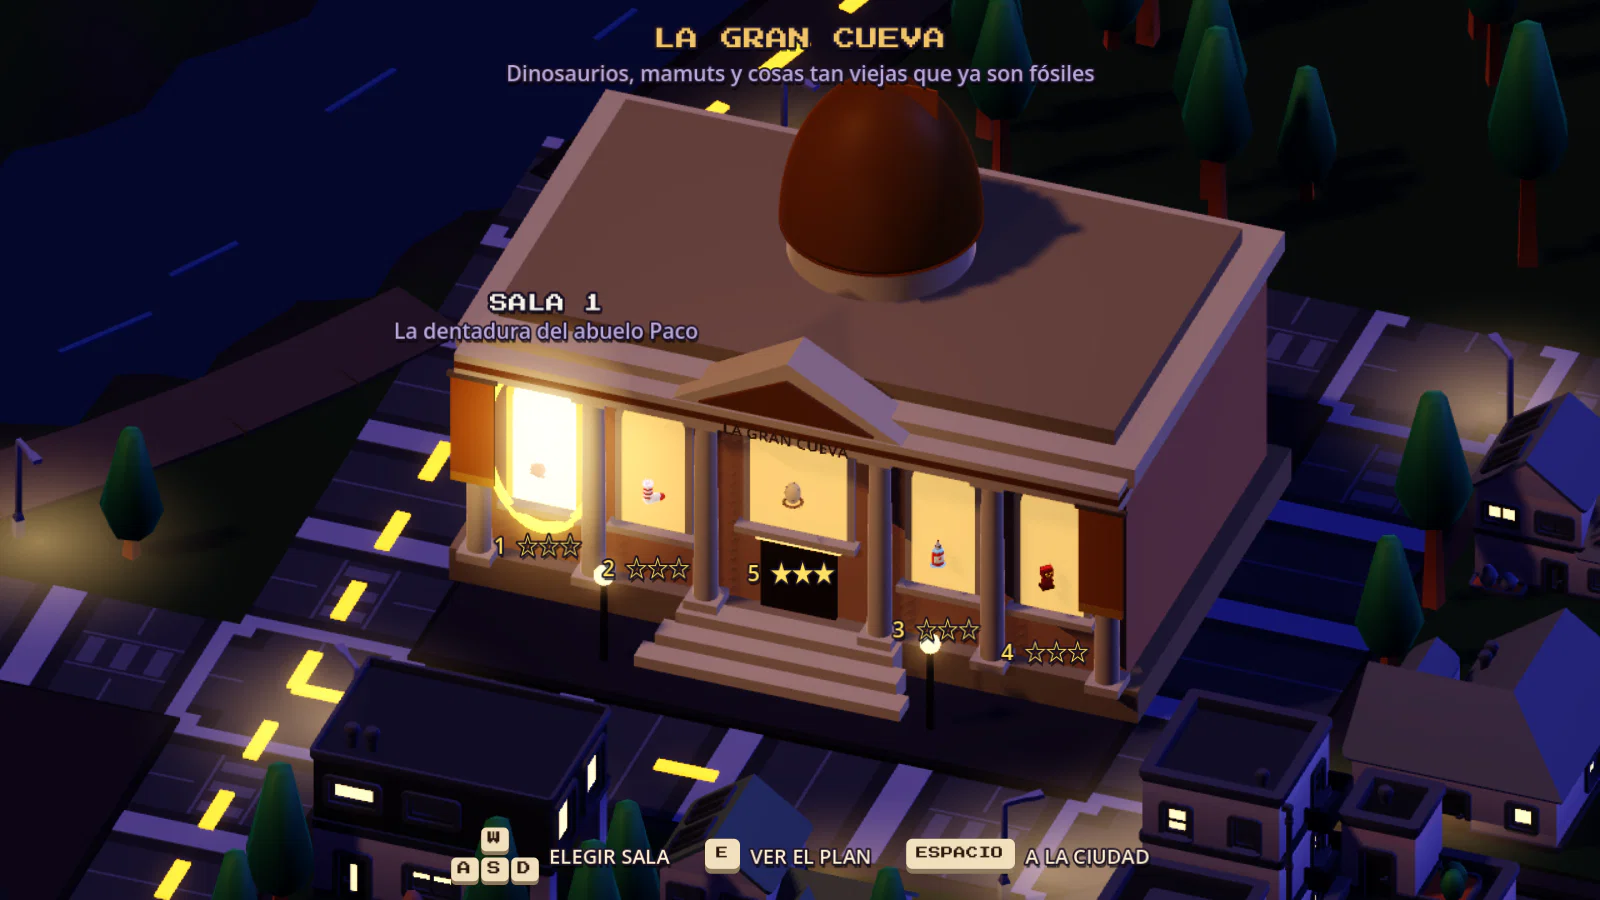
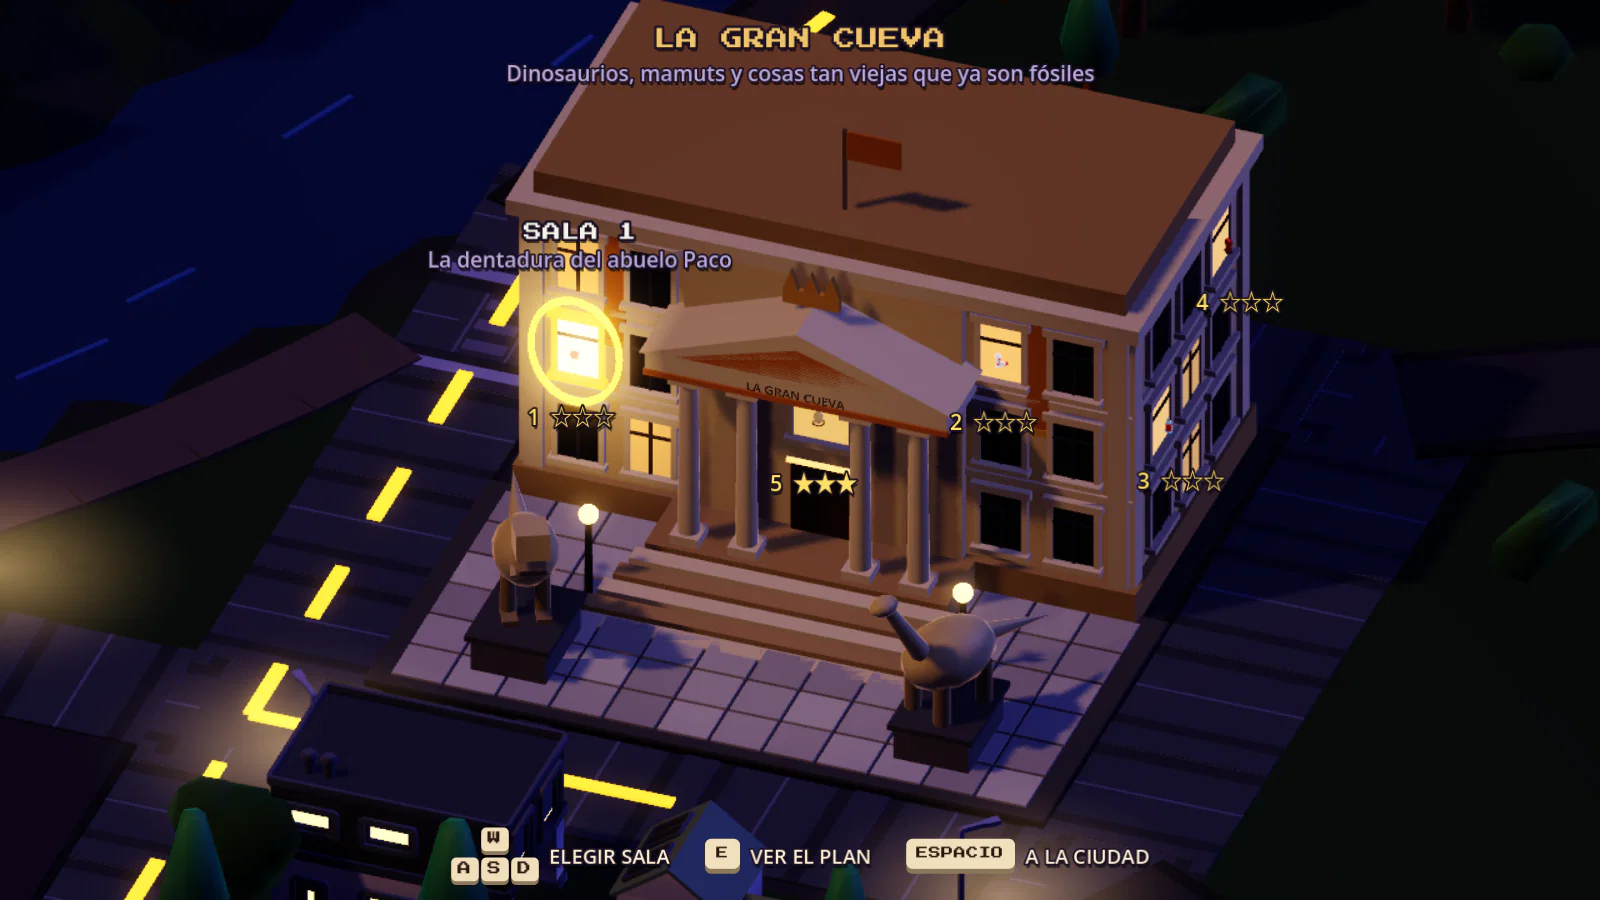
Docs: la captura de La Gran Cueva con salas en la fachada y el costado, y su hito

diff --git a/docs/data/versiones.js b/docs/data/versiones.js
@@ -551,6 +551,22 @@ window.VERSIONES = {
    "bytes": 49970
   },
   {
+   "asunto": "museo",
+   "fecha": "2026-09-28T19:15",
+   "commit": "952f776",
+   "titulo": "La Gran Cueva: salas en la fachada y el costado",
+   "porque": "Las salas repartidas por el edificio y solo a la vista las desbloqueadas",
+   "cambio": "Ventanas también en los costados, con pilastras en las esquinas; salas 1 y 2 en la fachada (plantas primera y última), 3 y 4 en el costado derecho, el gran golpe sobre la puerta. Una sala sin desbloquear es una ventana más del edificio (sin candado ni estrellas) y no se elige; las flechas siguen el orden en pantalla",
+   "file": "versiones/museo/2026-09-28-la-gran-cueva-salas-en-la-fachada-y-el-c.webp",
+   "from": "docs/capturas/menu_museo_1.webp",
+   "commit_msg": "",
+   "size": [
+    1280,
+    720
+   ],
+   "bytes": 50688
+  },
+  {
    "asunto": "recreativa",
    "fecha": "2026-09-27T14:55",
    "commit": "59b9a18",
@@ -583,5 +599,5 @@ window.VERSIONES = {
    "bytes": 68042
   }
  ],
- "bytes": 2322246
+ "bytes": 2372934
 };
